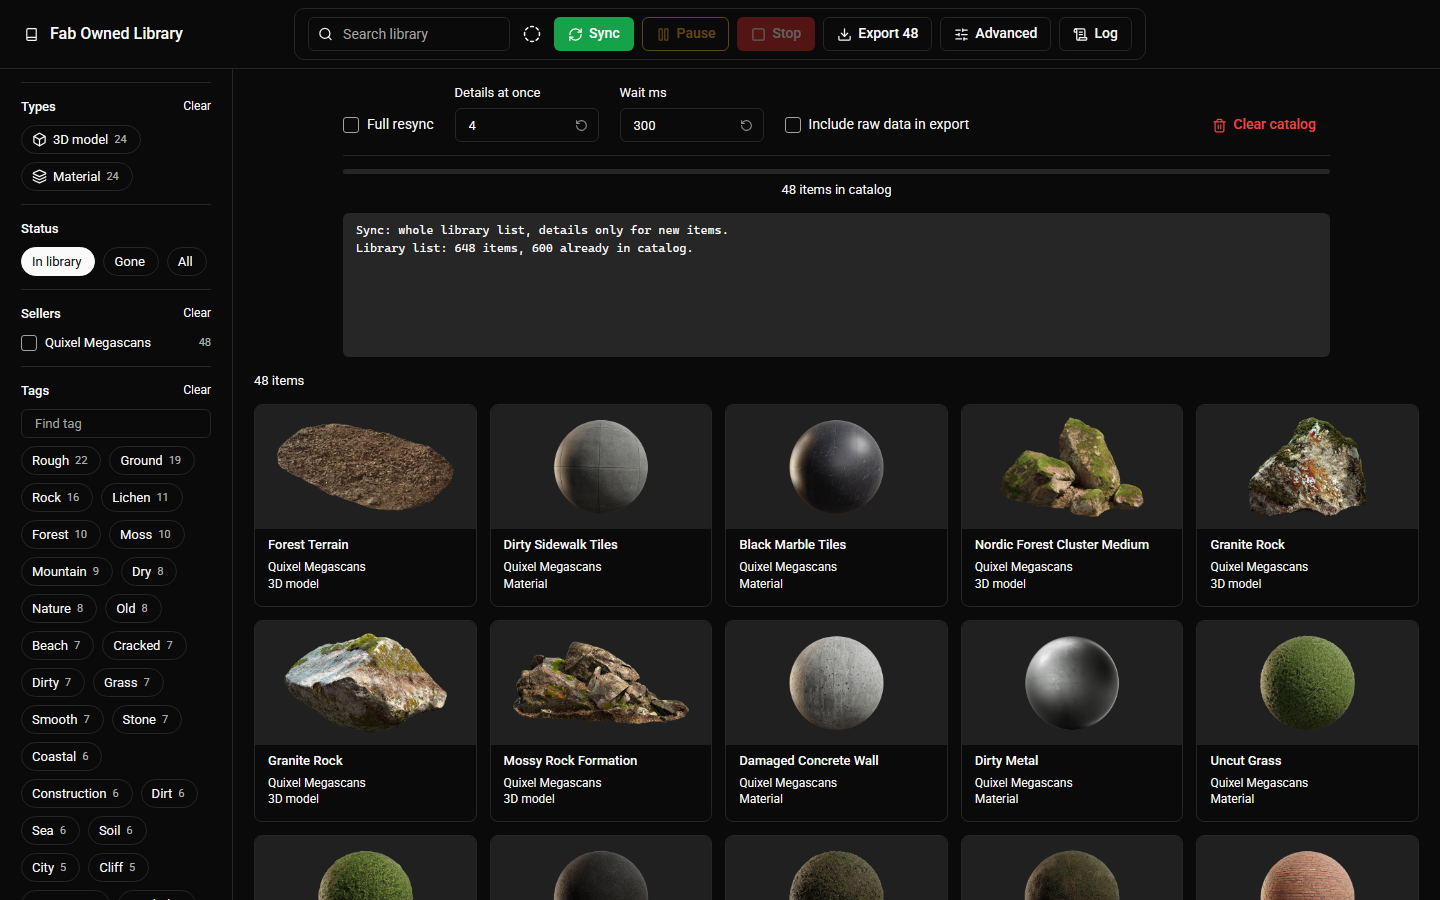
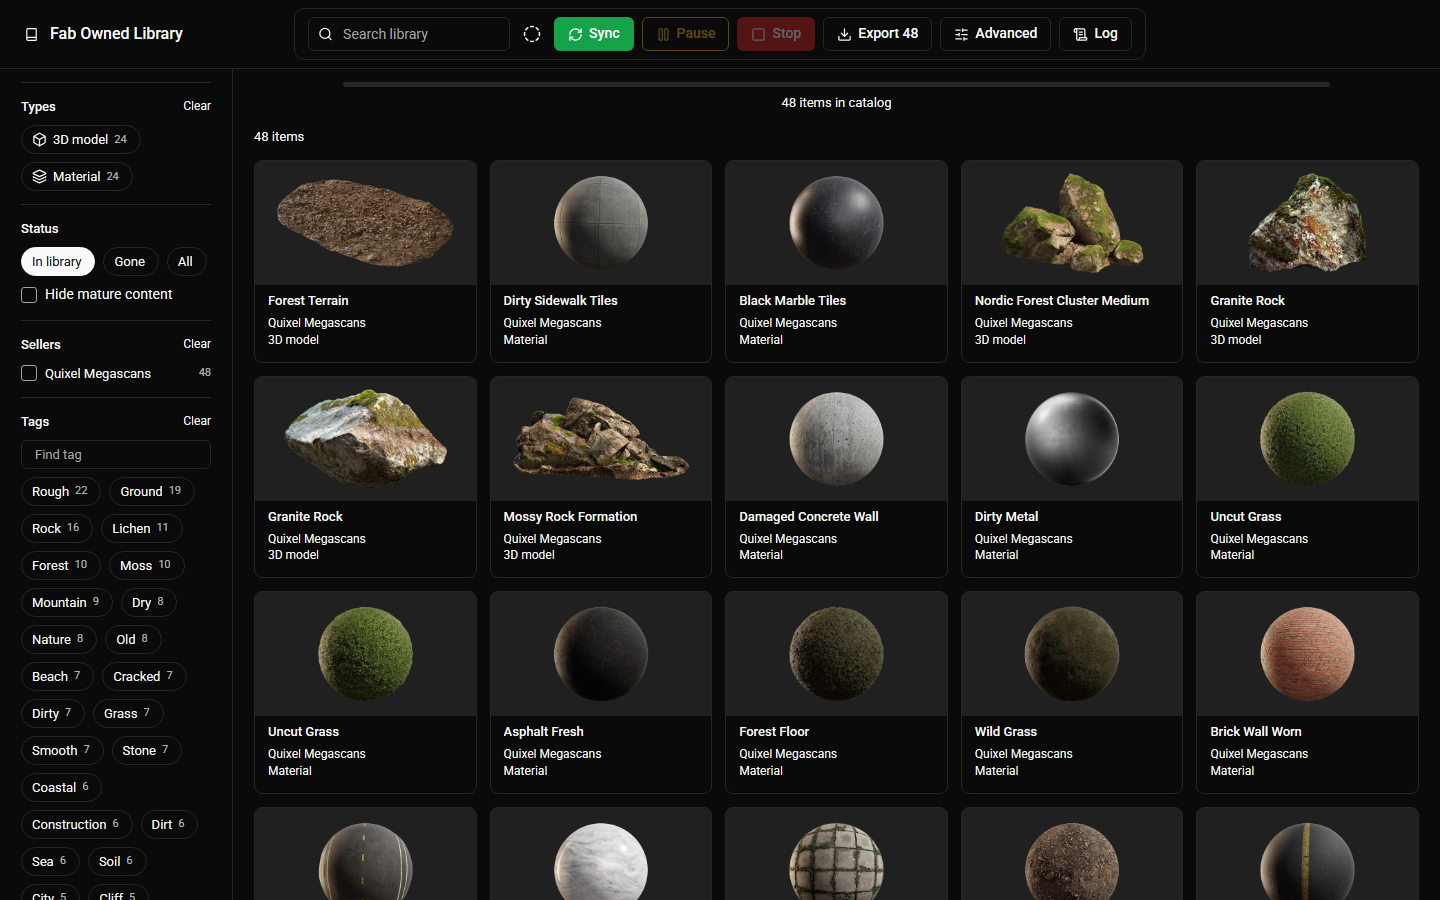
feat(library): add mature content filter
Sidebar checkbox hides mature items. Screenshot updated.

diff --git a/library/library.js b/library/library.js
@@ -31,7 +31,7 @@ const sleep = (ms) => new Promise((resolve) => setTimeout(resolve, ms));
 
 const state = {
   items: new Map(),
-  filters: { text: "", types: new Set(), sellers: new Set(), tags: new Set(), status: "ok", sort: "acquired" },
+  filters: { text: "", types: new Set(), sellers: new Set(), tags: new Set(), status: "ok", hideMature: false, sort: "acquired" },
   tagSearch: "",
   shown: PAGE_STEP,
   selectedUid: null,
@@ -320,6 +320,7 @@ function matches(item) {
   const f = state.filters;
   if (f.status === "ok" && isGone(item)) return false;
   if (f.status === "gone" && !isGone(item)) return false;
+  if (f.hideMature && item.isMature) return false;
   if (f.types.size && !f.types.has(item.listingType)) return false;
   if (f.sellers.size && !f.sellers.has(item.seller)) return false;
   if (f.tags.size && ![...f.tags].every((tag) => item.tags.includes(tag))) return false;
@@ -417,6 +418,7 @@ document.querySelector(".sidebar").addEventListener("change", (event) => {
     else setByName[input.name].delete(input.value);
   }
   if (input.name === "status") state.filters.status = input.value;
+  if (input.id === "hideMature") state.filters.hideMature = input.checked;
   if (input.name === "sort") state.filters.sort = input.value;
   state.shown = PAGE_STEP;
   renderAll();

diff --git a/library/library.html b/library/library.html
@@ -83,6 +83,10 @@
           <label class="chip"><input type="radio" name="status" value="gone"><span>Gone</span></label>
           <label class="chip"><input type="radio" name="status" value="all"><span>All</span></label>
         </div>
+        <label class="check">
+          <input id="hideMature" class="checkbox" type="checkbox">
+          <span>Hide mature content</span>
+        </label>
       </section>
 
       <section class="facet">

diff --git a/README.md b/README.md
@@ -83,7 +83,7 @@ Each field has a small arrow that restores its default.
 ### What it does
 
 - Opens a full tab with everything you own on Fab: image, title, seller, type, category, tags, formats, rating, license, acquired date.
-- Search and filter by type, seller, tag, and status. Sort by newest, title, or type.
+- Search and filter by type, seller, tag, status, and mature content. Sort by newest, title, or type.
 - Click an item for its gallery, facts, and description. Open it on Fab, recheck it, or copy its JSON.
 - Export the filtered list as one JSON file.
 - The catalog lives in your browser. Sync adds only what is new.
